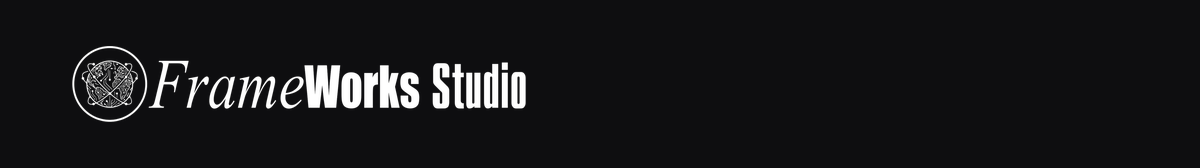
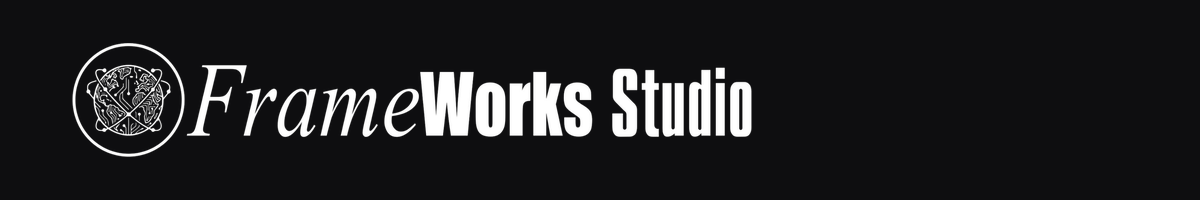
Add files via upload

Changed region(s): [[0.0617, 0.2083, 0.6475, 0.8036]]

diff --git a/email/index.html b/email/index.html
@@ -2,7 +2,7 @@
 <table role="presentation" width="100%" cellpadding="0" cellspacing="0" border="0" style="background:#F4F3F0;">
 <tr><td align="center" style="padding:32px 12px;">
 <table role="presentation" width="600" cellpadding="0" cellspacing="0" border="0" style="width:600px;max-width:100%;background:#FFFFFF;border:1px solid #E6E4DF;">
-<tr><td style="padding:0;line-height:0;font-size:0;"><img src="https://oautobrokers.netlify.app/email/header.png" width="600" height="84" alt="FrameWorks Studio" style="display:block;width:600px;max-width:100%;height:auto;border:0;"></td></tr>
+<tr><td style="padding:0;line-height:0;font-size:0;"><img src="https://oautobrokers.netlify.app/email/header.png" width="600" height="100" alt="FrameWorks Studio" style="display:block;width:600px;max-width:100%;height:auto;border:0;"></td></tr>
 <tr><td style="padding:40px 36px 8px 36px;font-family:Helvetica,Arial,sans-serif;">
 <p style="margin:0 0 6px 0;font-size:11px;letter-spacing:2.5px;text-transform:uppercase;color:#D7262B;font-weight:bold;">Website preview</p>
 <h1 style="margin:0 0 22px 0;font-size:26px;line-height:1.25;color:#111113;font-weight:bold;">Your new O Auto Brokers website is ready to review</h1>
